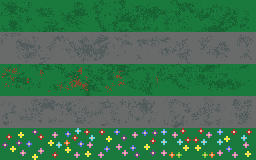
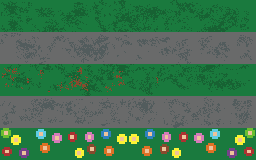
flowers

Changed region(s): [[0.0, 0.7812, 1.0, 1.0]]

diff --git a/LastHope/Engine/LevelGenerator/LevelGenerator.Terrain.cs b/LastHope/Engine/LevelGenerator/LevelGenerator.Terrain.cs
@@ -34,11 +34,11 @@ namespace Last_Hope.Engine.LevelGenerator
         }
 
         // ── Flower field ─────────────────────────────────────────────
-        // Stamps a single small rectangle of flower tiles (row 5 of the
-        // terrain sheet) somewhere on the grass. Size is randomly 2×2,
-        // 2×3, or 3×2 — "4 or 6 tiles in a square". Placement is only
-        // accepted if every cell under the stamp is currently grass so
-        // walkways stay intact.
+        // Stamps a single rectangle of flower tiles (row 5 of the
+        // terrain sheet) somewhere on the grass. Size is randomly 4×4,
+        // 4×6, or 6×4 — twice the footprint of the original 2×2 / 2×3
+        // stamp. Placement is only accepted if every cell under the
+        // stamp is currently grass so walkways stay intact.
         private void ApplyFlowerField(int[,] map)
         {
             List<int> flowerTiles = GetTerrainTileIndicesForRowsOneBased(5);
@@ -49,10 +49,10 @@ namespace Last_Hope.Engine.LevelGenerator
             if (grassSet.Count == 0)
                 return;
 
-            // Pick 2×2, 2×3, or 3×2.
+            // Pick 4×4, 4×6, or 6×4.
             int shape = _random.Next(3);
-            int fieldW = shape == 2 ? 3 : 2;
-            int fieldH = shape == 1 ? 3 : 2;
+            int fieldW = shape == 2 ? 12 : 6;
+            int fieldH = shape == 1 ? 12 : 6;
 
             int width = map.GetLength(0);
             int height = map.GetLength(1);
